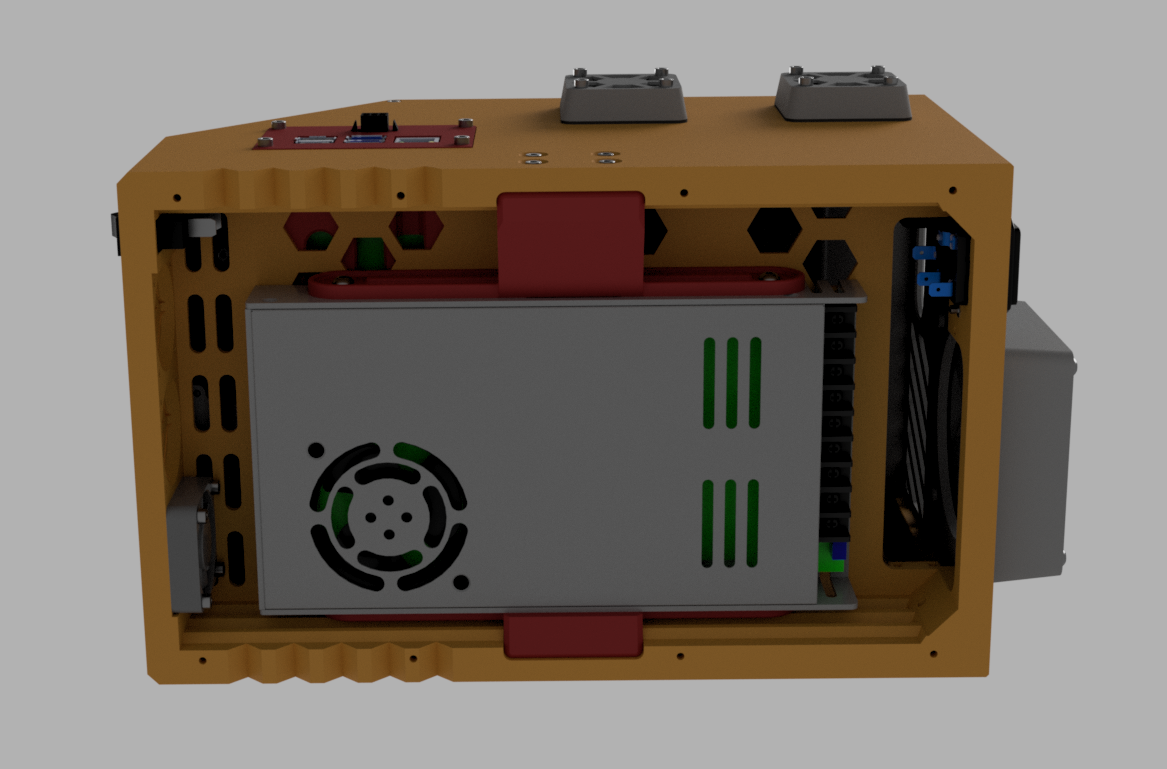
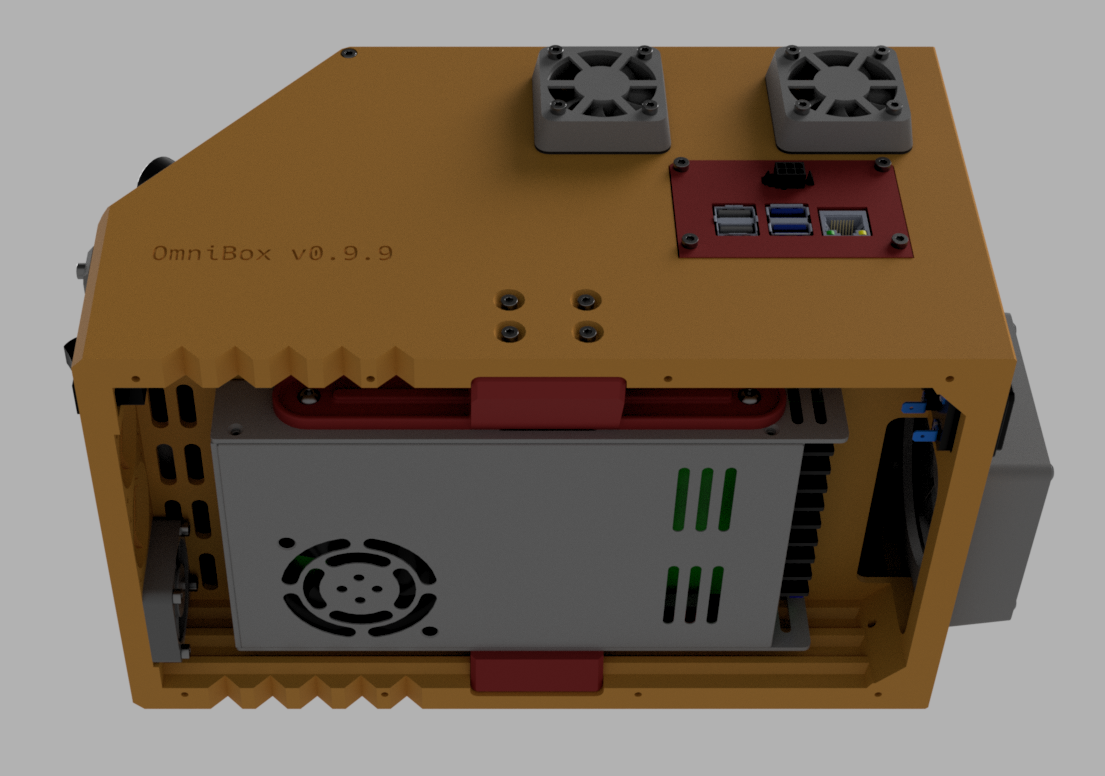
Updated renders for 0.9.9

diff --git a/docs/history/index.md b/docs/history/index.md
@@ -71,10 +71,51 @@ These parts still need to be tested for fit and other issues.
 
 ## Gallery
 
+<figure markdown>
+  [![front right render][11]{ width="480" }][11]
+  <figcaption>The CPU bay has moved to the rear. The power supply has additional ventilation in front.</figcaption>
+</figure>
 
+<figure markdown>
+  [![front left render][12]{ width="480" }][12]
+  <figcaption>There is a matching bay on the opposite side, as well. Also note the new fan intake.</figcaption>
+</figure>
+
+<figure markdown>
+  [![front right render][14]{ width="480" }][14]
+  <figcaption>New, universal power supply mount. The mount is off-center and has a passthrough for power switch wiring.</figcaption>
+</figure>
+
+<figure markdown>
+  [![front left render][13]{ width="480" }][13]
+  <figcaption>The power supply no longer hangs freely; instead, it adds rigidity to the case when installed. Also: all three front vents have an optional fan mount on the inside (one occupied in the render).</figcaption>
+</figure>
+
+<figure markdown>
+  [![front right render][15]{ width="480" }][15]
+  <figcaption>The CPU tray is moved slightly forward and now mounts with M3 screws. The rear wiring passthrough no longer exposes the power socket.</figcaption>
+</figure>
+
+<figure markdown>
+  [![front left render][17]{ width="480" }][17]
+  <figcaption>Hex flooring for better ventilation and sturdier build.</figcaption>
+</figure>
+
+<figure markdown>
+  [![front left render][16]{ width="480" }][16]
+  <figcaption>The two CPU bays are elevated to make room for lower bay tray mounts. Unused bays can hold a short lower bay tray.</figcaption>
+</figure>
 
 [1]: https://github.com/jon-harper/OmniBox/issues/14
 [2]: https://github.com/jon-harper/OmniBox/issues/18
 [3]: https://github.com/jon-harper/OmniBox/issues/35
 [4]: https://github.com/jon-harper/OmniBox/issues/33
 [5]: https://github.com/jon-harper/OmniBox/issues/39
+
+[11]: ../img/gallery_0.9.9/render1.png
+[12]: ../img/gallery_0.9.9/render2.png
+[13]: ../img/gallery_0.9.9/render3.png
+[14]: ../img/gallery_0.9.9/render4.png
+[15]: ../img/gallery_0.9.9/render5.png
+[16]: ../img/gallery_0.9.9/render6.png
+[17]: ../img/gallery_0.9.9/render7.png

diff --git a/docs/index.md b/docs/index.md
@@ -27,7 +27,7 @@ This project is derived from Steve Burcham's [Stand Alone Main Control Case][bgd
 
 [:material-television-guide: Visual Guided Tour][11]{ .md-button }
 
-[:octicons-checklist-24: Supported Part List][12]{ .md-button }
+[:octicons-checklist-24: Supported Parts List][12]{ .md-button }
 
 [:octicons-list-ordered-24: Bill of Materials][13]{ .md-button }
 
@@ -35,7 +35,7 @@ This project is derived from Steve Burcham's [Stand Alone Main Control Case][bgd
 
 [:material-printer-3d-nozzle: Printing Guide][14]{ .md-button }
 
-[:material-github: GitHub with STLs][15]{ .md-button }
+[:material-github: GitHub with STLs][git_home]{ .md-button }
 
 ### Assembly
 
